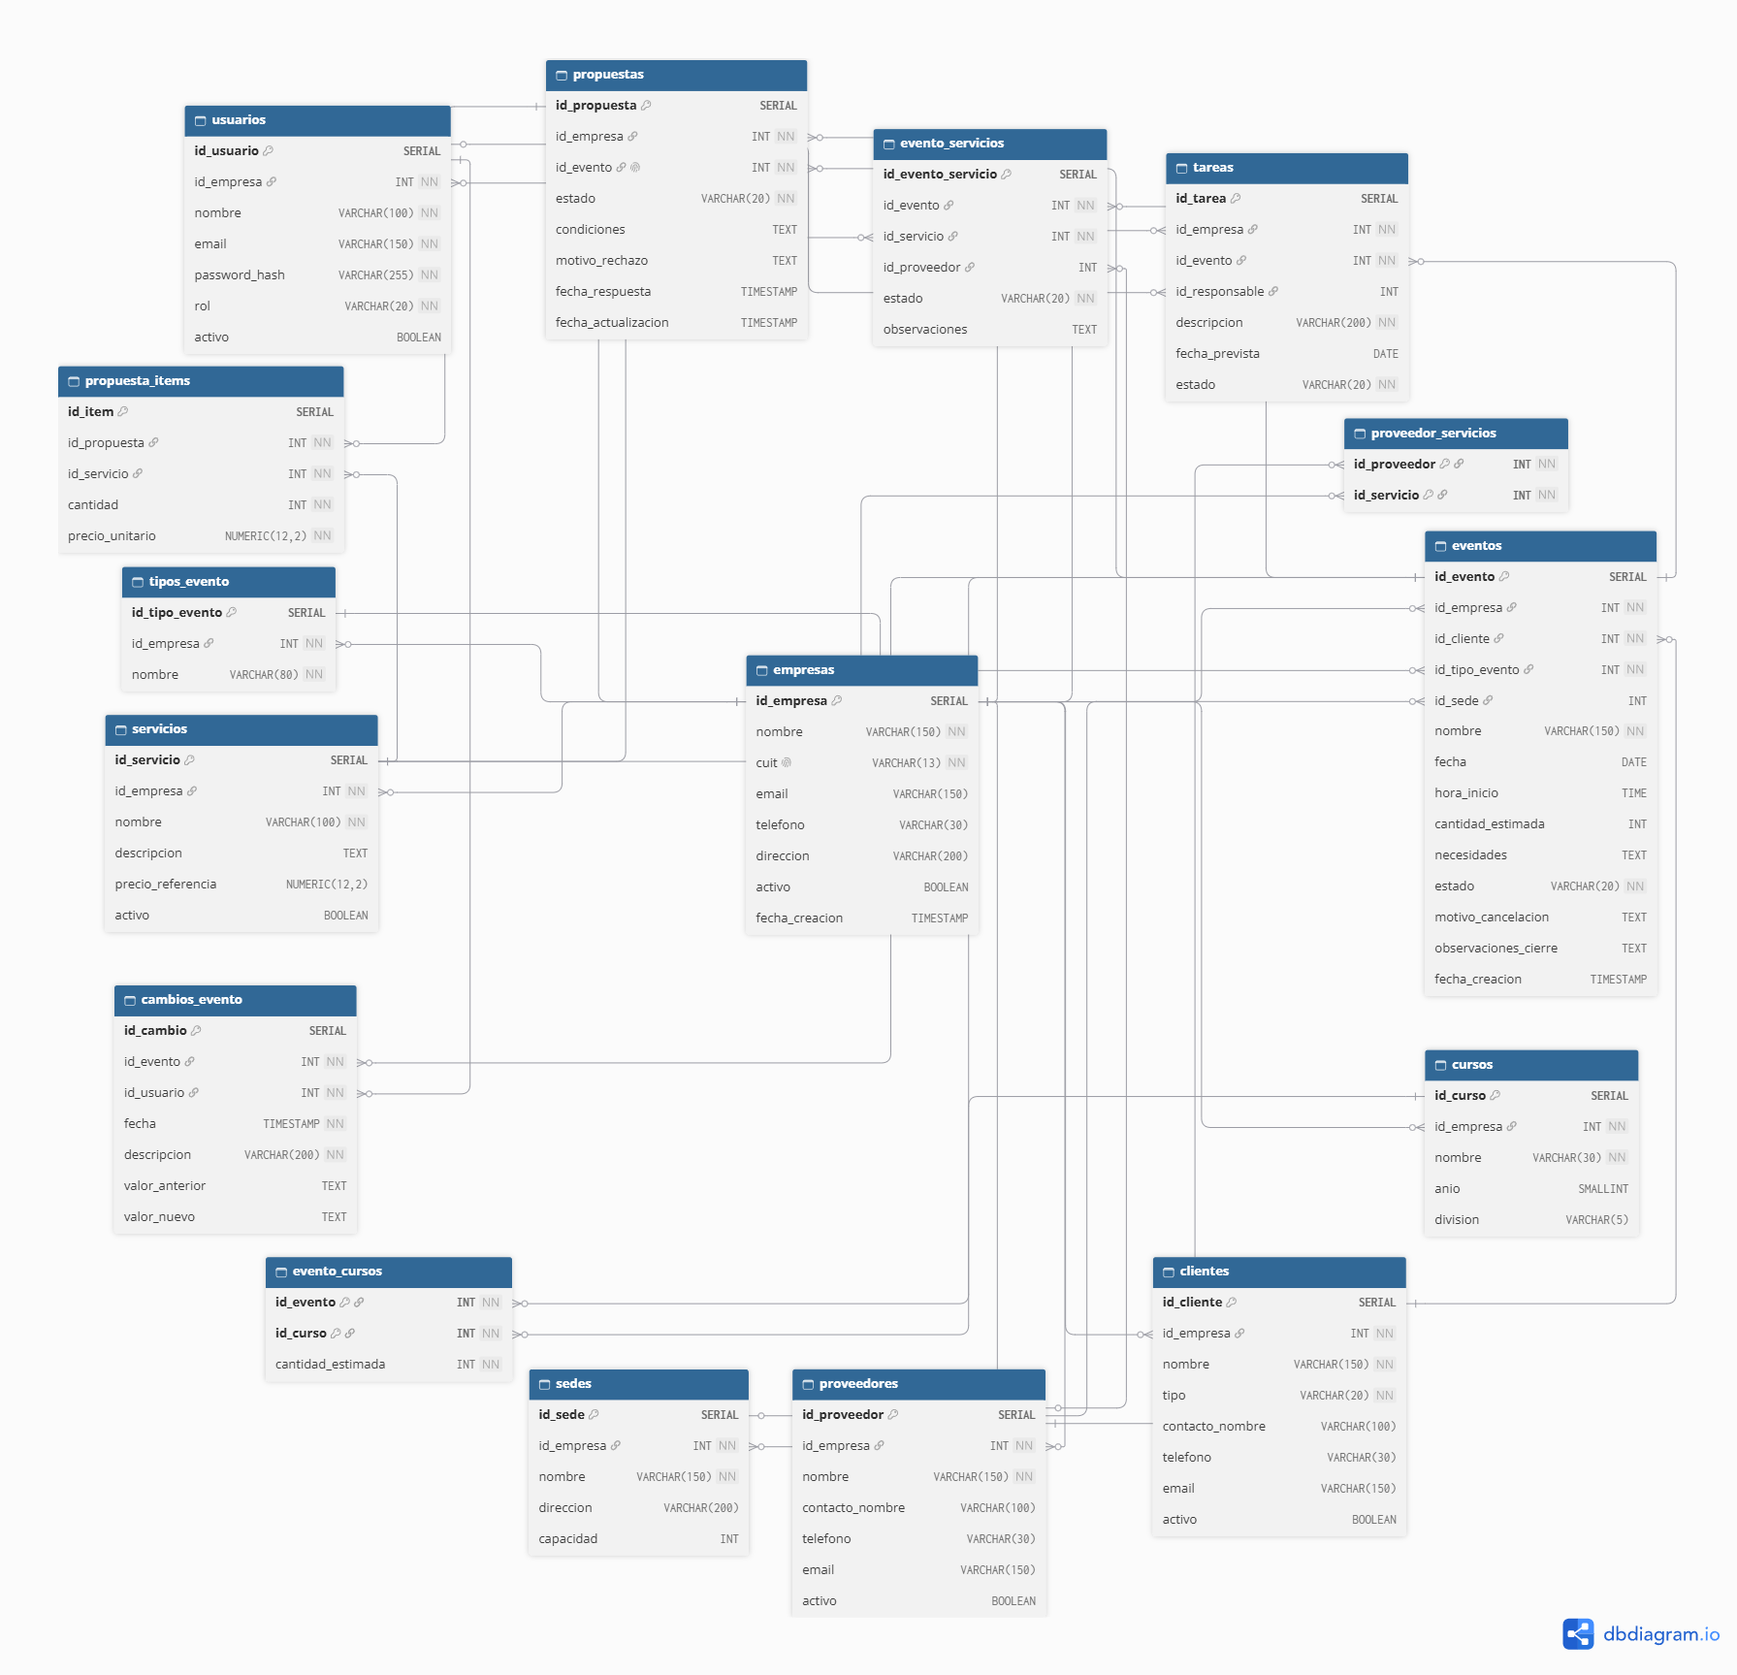
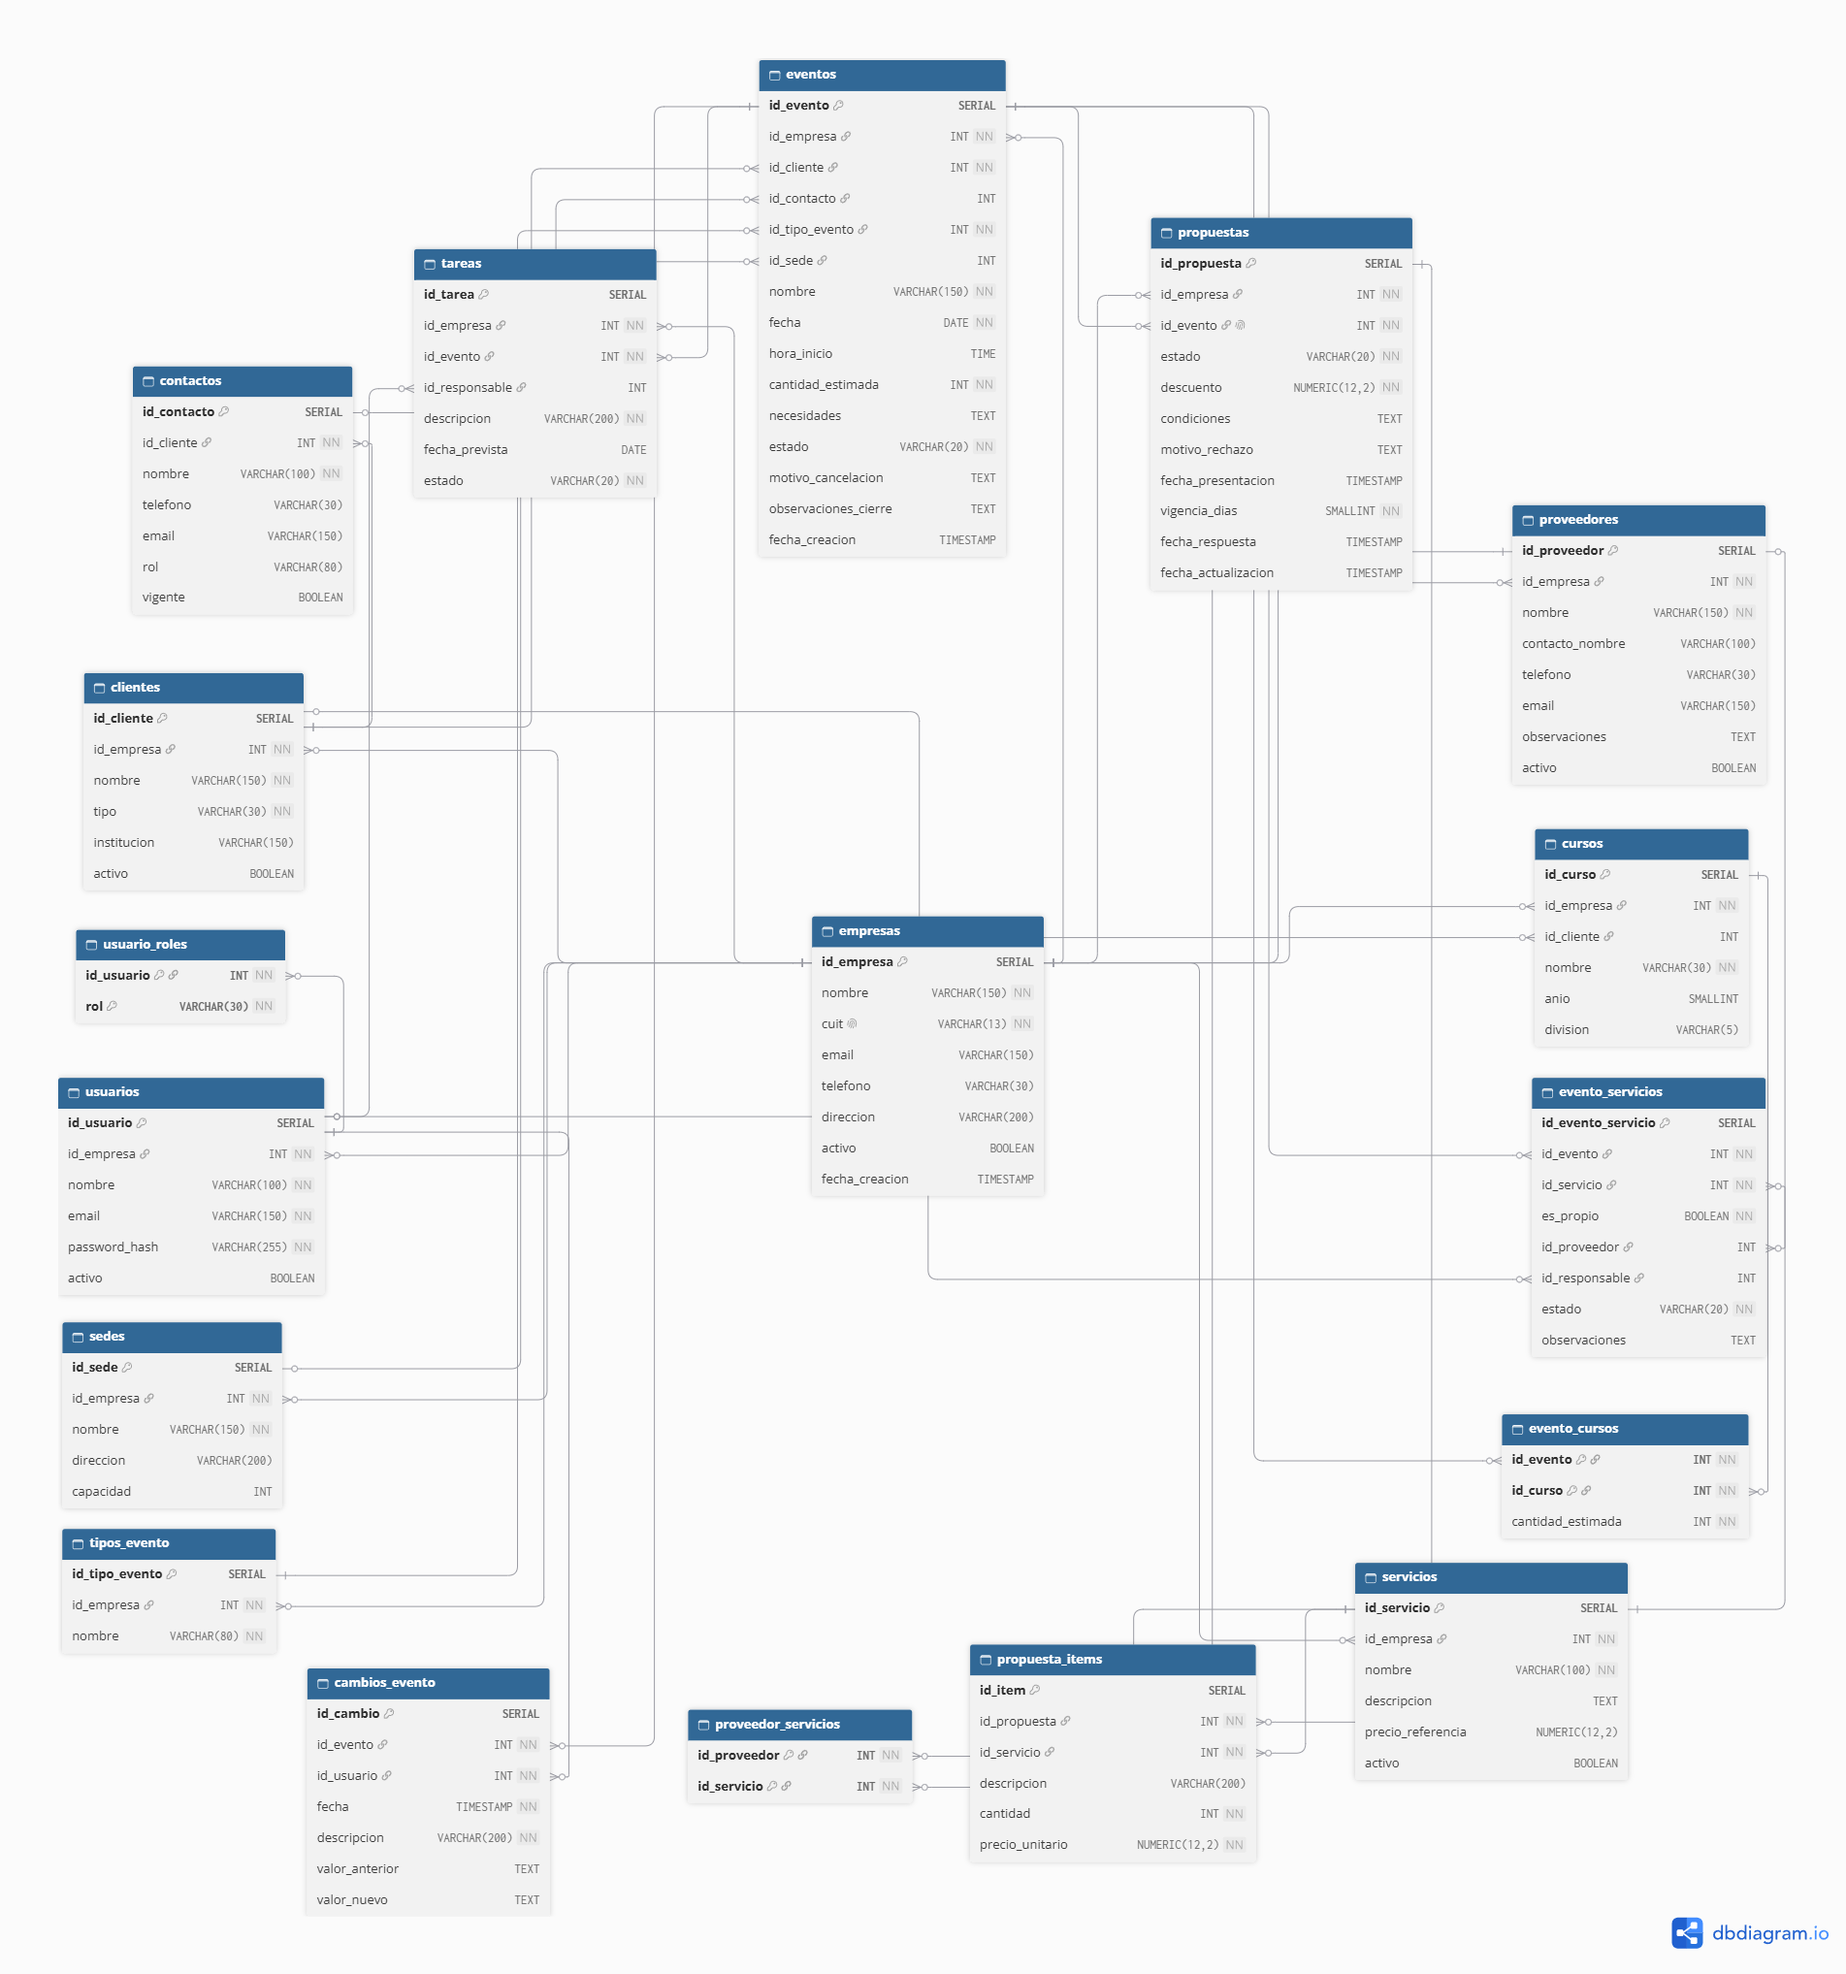
cambios en README.md y modelo-logico.png

diff --git a/README.md b/README.md
@@ -104,7 +104,7 @@ Así, cuando agreguemos **MongoDB**, solo hay que crear `src/models/mongo/empres
 funciones (`getAll`, `getById`, `create`, `update`, `remove`), registrarlo en `src/models/index.js`
 y poner `DB_CLIENT=mongo` en el `.env`. Rutas y controllers no cambian.
 
-## Link de diagrama: https://dbdiagram.io/d/6acea6dbe308025ea5e70018
+## Link de diagrama: https://dbdiagram.io/d/6ad23077fe5cc8bda2d9dbd2
 
 ## Docker
 
